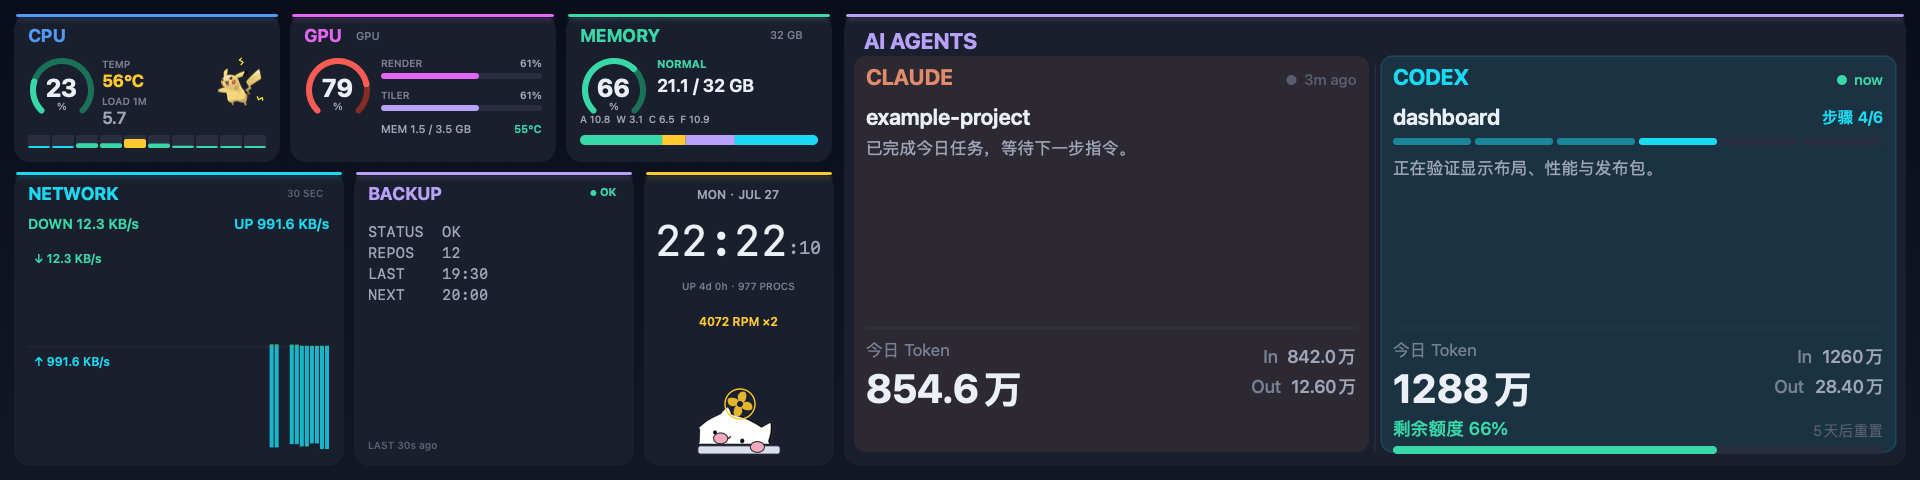
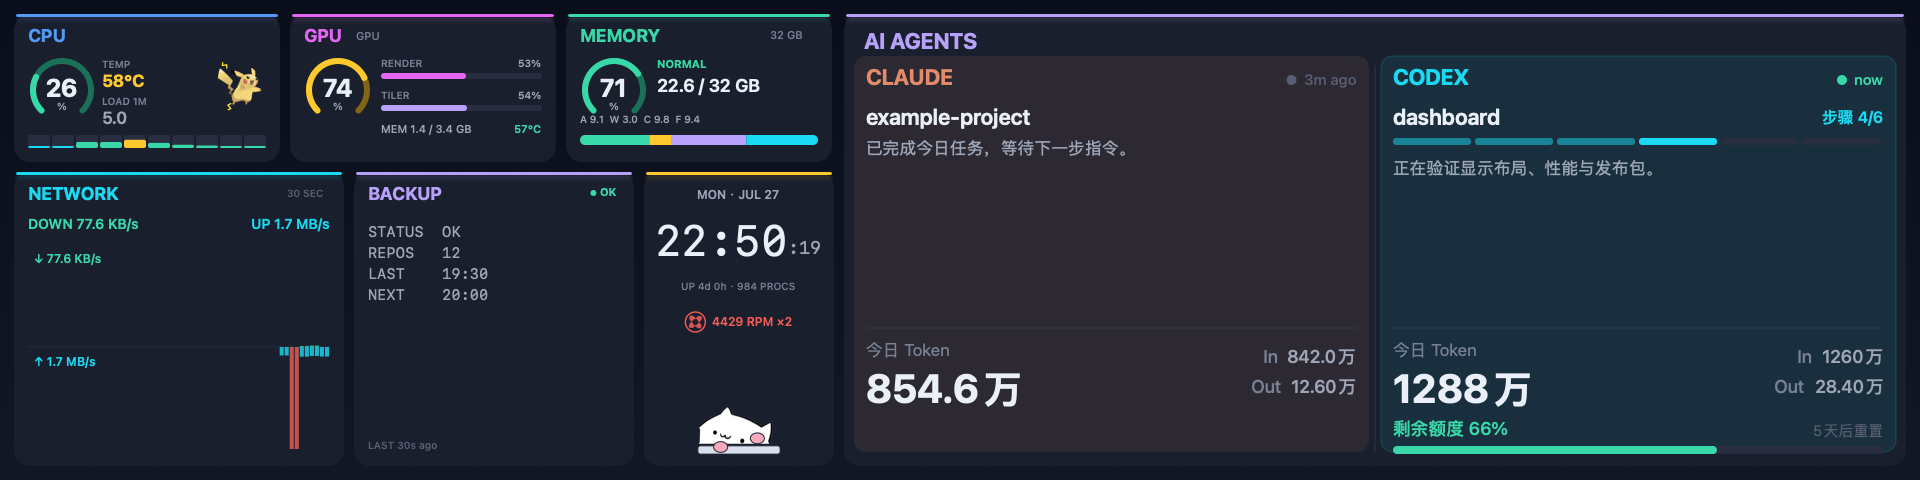
fix: refine fan and network visuals

diff --git a/Sources/MacTR/Rendering/MonitorRenderer.swift b/Sources/MacTR/Rendering/MonitorRenderer.swift
@@ -666,12 +666,16 @@ final class MonitorRenderer: FrameRenderer, @unchecked Sendable {
 
         let down = "DOWN \(Draw.formatBytesPerSec(network.rxBytesPerSec))"
         let up = "UP \(Draw.formatBytesPerSec(network.txBytesPerSec))"
+        let downColor = Color.forNetworkRate(
+            network.rxBytesPerSec, normal: Color.green)
+        let upColor = Color.forNetworkRate(
+            network.txBytesPerSec, normal: Color.cyan)
         let rateFont = Fonts.system(14, weight: .semibold)
         Draw.text(ctx, down, x: x + 14, y: y + 43,
-                  font: rateFont, color: Color.green)
+                  font: rateFont, color: downColor)
         let upWidth = (up as NSString).size(withAttributes: [.font: rateFont]).width
         Draw.text(ctx, up, x: Int(CGFloat(x + w - 14) - upWidth), y: y + 43,
-                  font: rateFont, color: Color.cyan)
+                  font: rateFont, color: upColor)
 
         // Pad startup history on the left so bar width stays stable instead of
         // rendering a handful of oversized columns during the first 30 seconds.
@@ -847,11 +851,13 @@ final class MonitorRenderer: FrameRenderer, @unchecked Sendable {
         let fanLabel: String
         let fanColor: CGColor
         let fanTurnsPerSecond: Double
+        let showFanRotor: Bool
         if let fans, fans.available {
             if fans.fans.isEmpty {
                 fanLabel = "FANLESS"
                 fanColor = Color.textD
                 fanTurnsPerSecond = 0
+                showFanRotor = false
             } else {
                 let fan = fans.fans[0]
                 fanLabel = String(format: "%.0f RPM", fan.currentRPM)
@@ -860,27 +866,51 @@ final class MonitorRenderer: FrameRenderer, @unchecked Sendable {
                 let normalized = fan.percentOfMax.map { $0 / 100 }
                     ?? min(max(fan.currentRPM / 6_000, 0), 1)
                 fanTurnsPerSecond = 0.18 + normalized * 1.45
+                showFanRotor = true
             }
         } else {
             fanLabel = "FAN N/A"
             fanColor = Color.textD
             fanTurnsPerSecond = 0
+            showFanRotor = false
         }
-        Draw.centeredText(ctx, fanLabel, cx: x + w / 2, y: y + 142,
-                          font: Fonts.system(12, weight: .semibold), color: fanColor)
 
         let t = now.timeIntervalSince1970
+        let fanFont = Fonts.system(12, weight: .semibold)
+        let fanTextY = y + 142
+        if showFanRotor {
+            // Treat the rotor and RPM as one centered status row. This keeps the
+            // animation visually tied to its value and leaves clean air above
+            // Bongo Cat instead of making the rotor look like part of its head.
+            let rotorFootprint: CGFloat = 20
+            let rotorTextGap: CGFloat = 7
+            let labelWidth = (fanLabel as NSString)
+                .size(withAttributes: [.font: fanFont]).width
+            let rowWidth = rotorFootprint + rotorTextGap + labelWidth
+            let rowX = CGFloat(x) + (CGFloat(w) - rowWidth) / 2
+            drawFanRotor(
+                ctx,
+                center: CGPoint(
+                    x: rowX + rotorFootprint / 2,
+                    y: CGFloat(fanTextY) + 8),
+                radius: 8,
+                angle: CGFloat(t * fanTurnsPerSecond * 2 * .pi),
+                color: fanColor,
+                available: true)
+            Draw.text(
+                ctx, fanLabel,
+                x: Int(rowX + rotorFootprint + rotorTextGap), y: fanTextY,
+                font: fanFont, color: fanColor)
+        } else {
+            Draw.centeredText(
+                ctx, fanLabel, cx: x + w / 2, y: fanTextY,
+                font: fanFont, color: fanColor)
+        }
+
         let catScale: CGFloat = 0.54
         drawBongoCat(
             ctx, cx: x + w / 2, baseY: y + h - 12,
             tapping: agentsBusy, phase: Int(t * 5) % 2 == 0, scale: catScale)
-        drawFanRotor(
-            ctx,
-            center: CGPoint(x: x + w / 2 + 1, y: y + h - 62),
-            radius: 13,
-            angle: CGFloat(t * fanTurnsPerSecond * 2 * .pi),
-            color: fanColor,
-            available: fans?.available == true)
     }
 
     private func drawFanRotor(

diff --git a/Sources/MacTR/Rendering/DrawingPrimitives.swift b/Sources/MacTR/Rendering/DrawingPrimitives.swift
@@ -202,6 +202,10 @@ enum Draw {
         let topMax = topValues.max() ?? 1
         let botMax = bottomValues.max() ?? 1
         let maxVal = max(topMax, botMax, 1)
+        let topNormalFill = topColor.copy(alpha: 0.8) ?? topColor
+        let bottomNormalFill = bottomColor.copy(alpha: 0.8) ?? bottomColor
+        let elevatedFill = Color.orange.copy(alpha: 0.8) ?? Color.orange
+        let highFill = Color.red.copy(alpha: 0.8) ?? Color.red
 
         // Center axis
         ctx.setStrokeColor(Color.border)
@@ -215,7 +219,12 @@ enum Draw {
             let barH = CGFloat(val / maxVal) * (halfH - 1)
             if barH < 0.5 { continue }
             let bx = CGFloat(x) + CGFloat(i) * barW
-            ctx.setFillColor(topColor.copy(alpha: 0.8) ?? topColor)
+            let fillColor: CGColor = switch Color.networkRateBand(val) {
+            case .normal: topNormalFill
+            case .elevated: elevatedFill
+            case .high: highFill
+            }
+            ctx.setFillColor(fillColor)
             ctx.fill(CGRect(x: bx, y: midY - barH, width: max(barW - 1, 1), height: barH))
         }
 
@@ -224,17 +233,26 @@ enum Draw {
             let barH = CGFloat(val / maxVal) * (halfH - 1)
             if barH < 0.5 { continue }
             let bx = CGFloat(x) + CGFloat(i) * barW
-            ctx.setFillColor(bottomColor.copy(alpha: 0.8) ?? bottomColor)
+            let fillColor: CGColor = switch Color.networkRateBand(val) {
+            case .normal: bottomNormalFill
+            case .elevated: elevatedFill
+            case .high: highFill
+            }
+            ctx.setFillColor(fillColor)
             ctx.fill(CGRect(x: bx, y: midY, width: max(barW - 1, 1), height: barH))
         }
 
         let calloutFont = Fonts.system(12, weight: .semibold)
+        let latestTopColor = Color.forNetworkRate(
+            topValues.last ?? 0, normal: topColor)
+        let latestBottomColor = Color.forNetworkRate(
+            bottomValues.last ?? 0, normal: bottomColor)
         drawChartCallout(
             ctx, topCallout, x: x + 6, y: y + 7,
-            font: calloutFont, color: topColor)
+            font: calloutFont, color: latestTopColor)
         drawChartCallout(
             ctx, bottomCallout, x: x + 6, y: Int(midY) + 7,
-            font: calloutFont, color: bottomColor)
+            font: calloutFont, color: latestBottomColor)
     }
 
     private static func drawChartCallout(

diff --git a/Sources/MacTR/Rendering/DesignTokens.swift b/Sources/MacTR/Rendering/DesignTokens.swift
@@ -52,6 +52,32 @@ enum Color {
     static func forPressureDark(_ level: Int) -> CGColor {
         level >= 4 ? redD : (level >= 2 ? orangeD : greenD)
     }
+
+    /// Network rate bands use the same decimal MB/s units shown by
+    /// `Draw.formatBytesPerSec`: normal through 5 MB/s, elevated above 5 MB/s,
+    /// and high above 10 MB/s.
+    static func networkRateBand(_ bytesPerSecond: Double) -> NetworkRateBand {
+        if bytesPerSecond > 10_000_000 { return .high }
+        if bytesPerSecond > 5_000_000 { return .elevated }
+        return .normal
+    }
+
+    static func forNetworkRate(
+        _ bytesPerSecond: Double,
+        normal normalColor: CGColor
+    ) -> CGColor {
+        switch networkRateBand(bytesPerSecond) {
+        case .normal: normalColor
+        case .elevated: orange
+        case .high: red
+        }
+    }
+}
+
+enum NetworkRateBand: Equatable {
+    case normal
+    case elevated
+    case high
 }
 
 // MARK: - Layout

diff --git a/Tests/MacTRTests/SystemMetricsModelTests.swift b/Tests/MacTRTests/SystemMetricsModelTests.swift
@@ -44,6 +44,15 @@ struct SystemMetricsModelTests {
         #expect(delta.tx == 500)
     }
 
+    @Test("Network display changes band above 5 and 10 MB per second")
+    func networkRateBands() {
+        #expect(Color.networkRateBand(0) == .normal)
+        #expect(Color.networkRateBand(5_000_000) == .normal)
+        #expect(Color.networkRateBand(5_000_001) == .elevated)
+        #expect(Color.networkRateBand(10_000_000) == .elevated)
+        #expect(Color.networkRateBand(10_000_001) == .high)
+    }
+
     @Test("Fan percentage clamps and tolerates a missing maximum")
     func fanPercentage() {
         #expect(FanReading(
